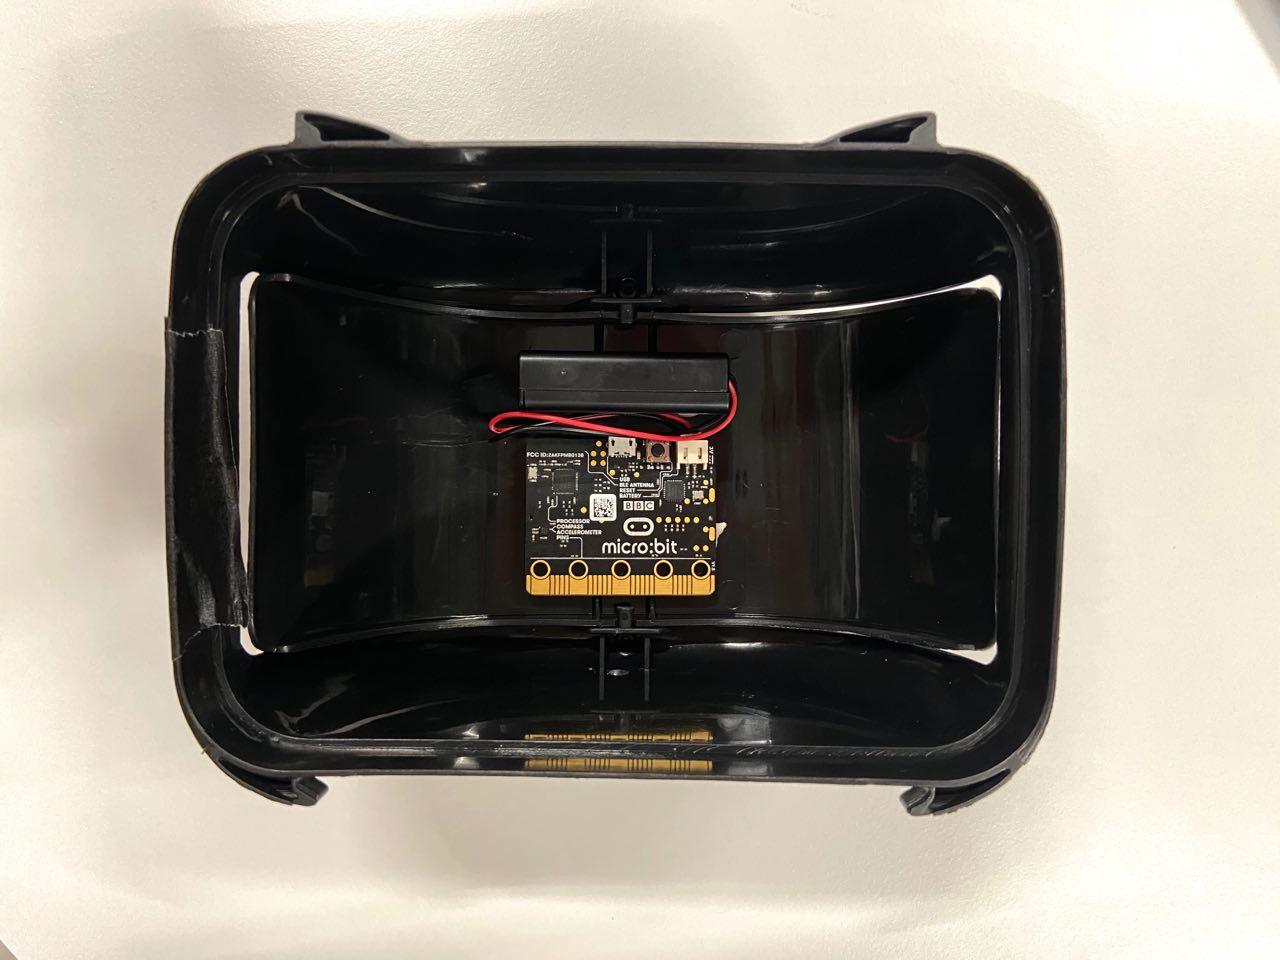
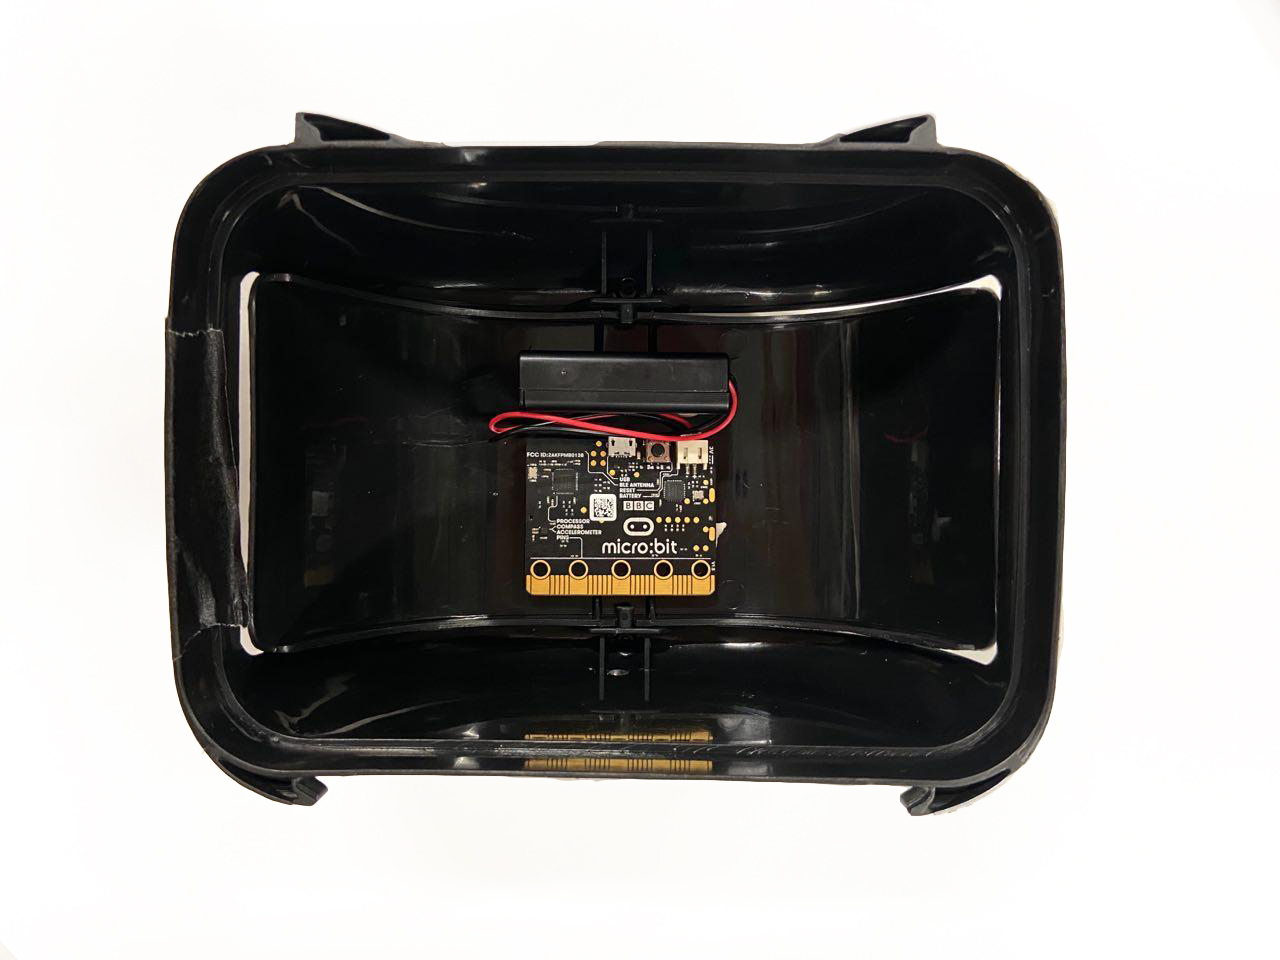
s

diff --git a/week7.html b/week7.html
@@ -63,7 +63,7 @@
                         </p>
 
                         
-                          <img src="image/The unexpected bin.jpg" style="width: 30%;" class="center">
+                          <img src="image/The unexpected bin.jpg" style="width: 50%;" class="center">
                         <p>
                           And, we are ready for DEMO day!
                           <br>
